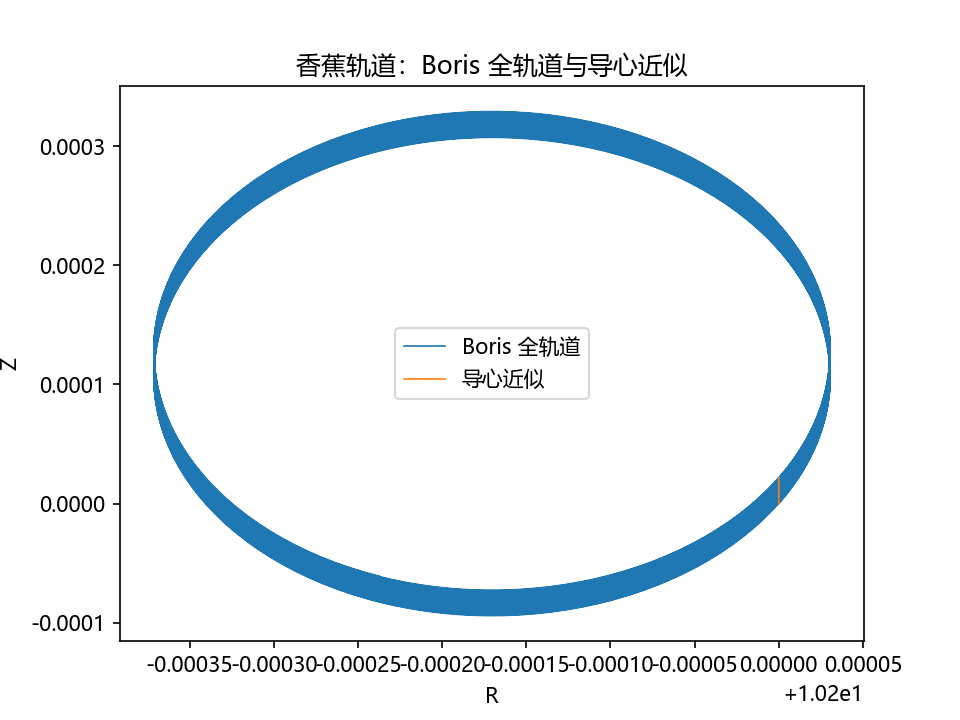
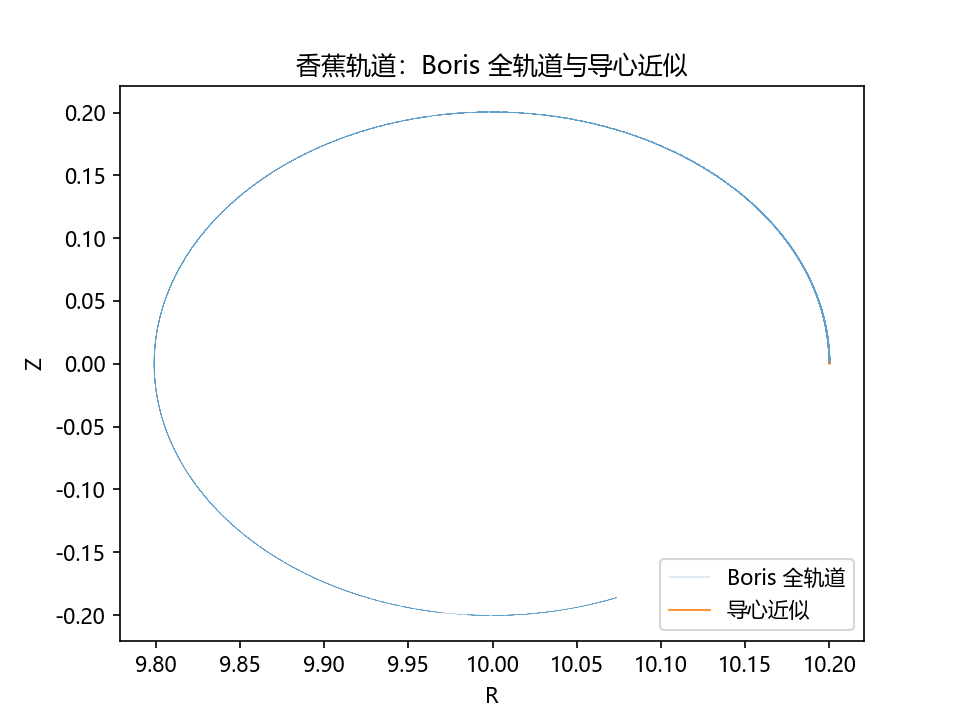
fix: improve banana orbit visualization
- Adjust tokamak banana orbit parameters to a trapped-particle regime
  (v_perp = 2e5 m/s, v_parallel = 5e3 m/s).
- Increase integration steps so the R-Z projection shows a clear banana shape.
- Update validation script and notebook to use the new parameters.
- Downsample full-orbit points for cleaner plotting while keeping GC curve sharp.

diff --git a/scripts/validation.py b/scripts/validation.py
@@ -86,22 +86,28 @@ def plot_convergence():
 def plot_banana_vs_gc():
     field = TokamakField(B0=5.0, R0=10.0, a=1.0, q0=1.0, q1=2.0)
     e = lambda x, y, z: np.zeros(3)
-    v = np.array([5e4, 0.0, 8e4])
+    # 选取被磁镜效应捕获的粒子：垂直速度大、平行速度小
+    v = np.array([2e5, 0.0, 5e3])
     p = Particle(PROTON_CHARGE, PROTON_MASS, np.array([10.2, 0.0, 0.0]), v)
 
-    result_boris = boris_integrate(field, e, p, dt=1e-10, n_steps=8000)
+    dt = 1e-9
+    n_steps_boris = 450000
+    result_boris = boris_integrate(field, e, p, dt=dt, n_steps=n_steps_boris)
+
     B = field(*p.position)
     B_mag = np.linalg.norm(B)
     v_para = np.dot(v, B) / B_mag
     v_perp_sq = float(v @ v) - v_para ** 2
     mu = 0.5 * v_perp_sq / B_mag
-    result_gc = guiding_center_integrate(field, p, dt=1e-10, n_steps=8000, mu=mu)
+
+    # 导心推进可用较大步长
+    result_gc = guiding_center_integrate(field, p, dt=2e-9, n_steps=n_steps_boris // 2, mu=mu)
 
     fig, ax = plt.subplots()
     R_b = np.sqrt(result_boris["trajectory"][:, 0] ** 2 + result_boris["trajectory"][:, 1] ** 2)
     R_g = np.sqrt(result_gc["trajectory"][:, 0] ** 2 + result_gc["trajectory"][:, 1] ** 2)
-    ax.plot(R_b, result_boris["trajectory"][:, 2], label="Boris 全轨道", lw=0.8)
-    ax.plot(R_g, result_gc["trajectory"][:, 2], label="导心近似", lw=0.8)
+    ax.plot(R_b[::20], result_boris["trajectory"][::20, 2], label="Boris 全轨道", lw=0.2, alpha=0.7)
+    ax.plot(R_g[::10], result_gc["trajectory"][::10, 2], label="导心近似", lw=0.8)
     ax.set_xlabel("R")
     ax.set_ylabel("Z")
     ax.set_title("香蕉轨道：Boris 全轨道与导心近似")
